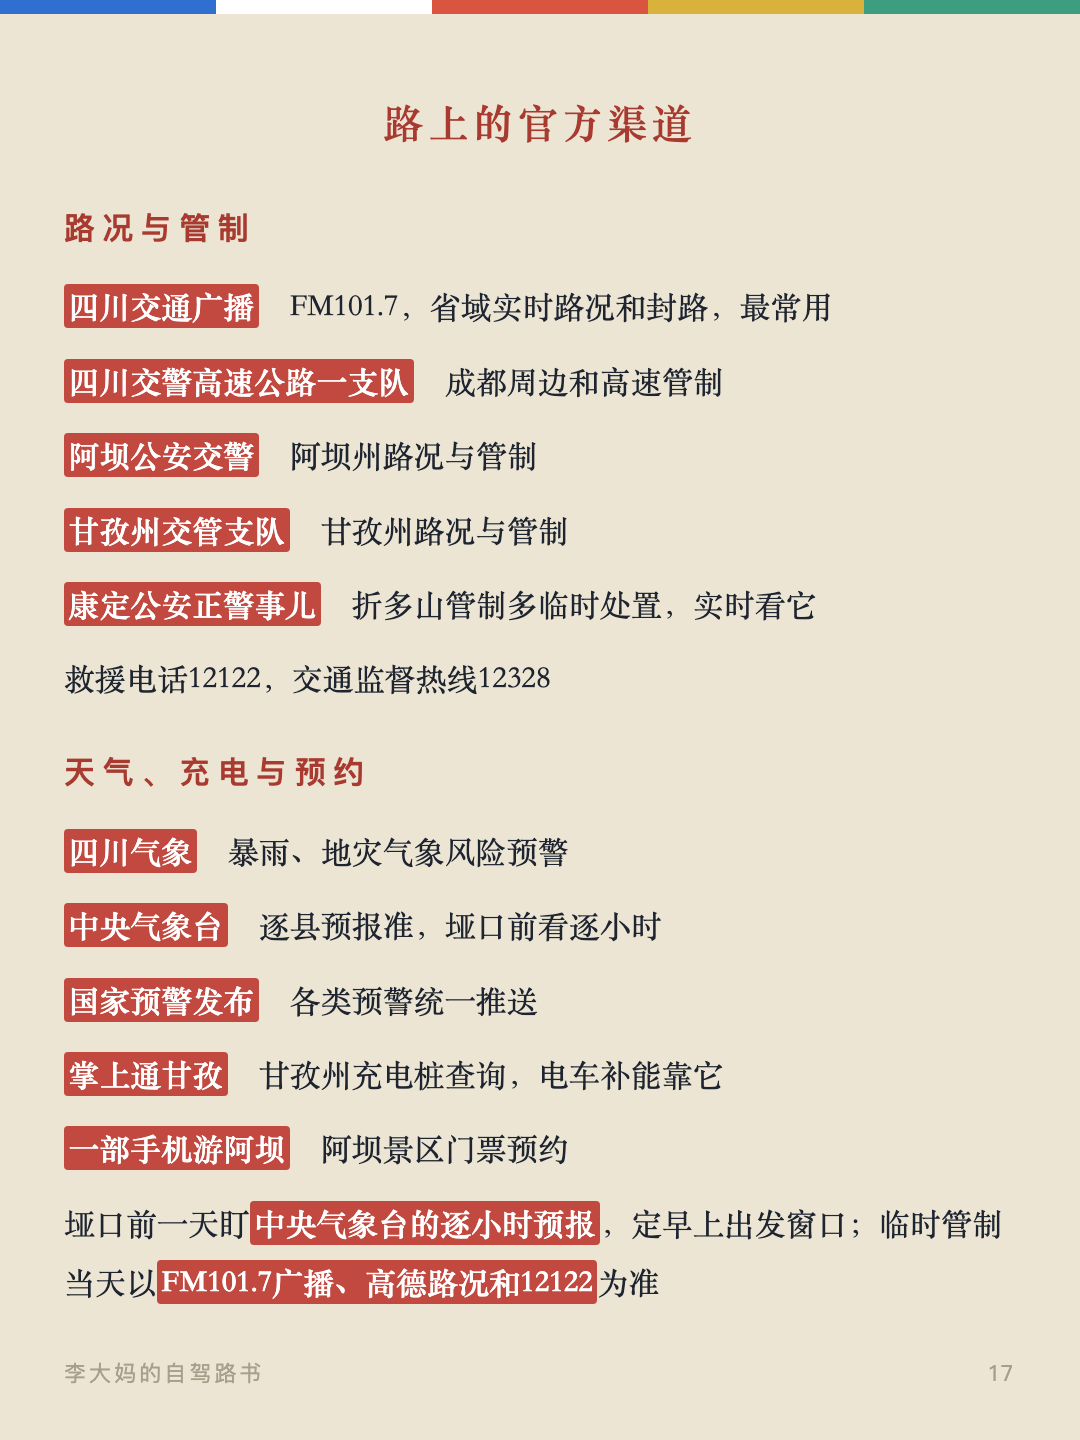
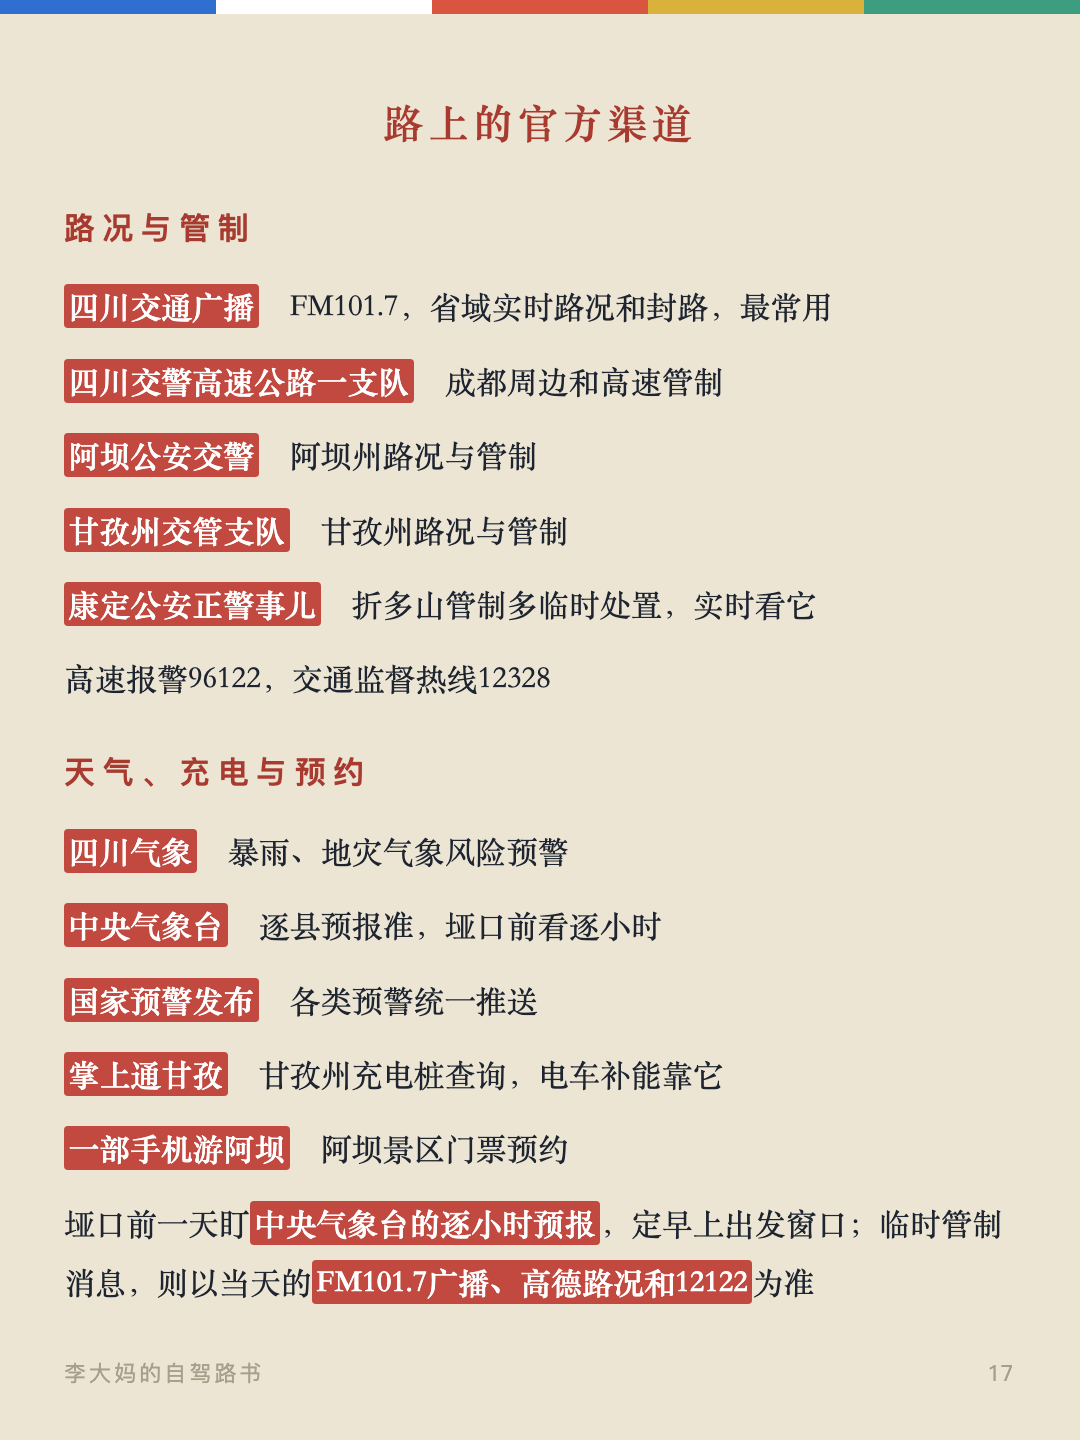
17页：临时管制消息以当天广播/高德/12122为准；救援电话改高速报警96122

Changed region(s): [[0.0611, 0.875, 0.7639, 0.9062], [0.0611, 0.4375, 0.1833, 0.5]]

diff --git a/cards.html b/cards.html
@@ -155,7 +155,7 @@
 
 <div class="card" id="card16"><div class="flag" aria-hidden="true"><span style="background:var(--flag-blue)"></span><span style="background:var(--flag-white)"></span><span style="background:var(--flag-red)"></span><span style="background:var(--flag-yellow)"></span><span style="background:var(--flag-green)"></span></div><div class="card__inner"><h2>出发检查清单</h2><ul class="card__list"><li>证件：<strong>身份证、驾驶证、行驶证</strong>随身带，别放车里</li> <li>车况：<strong>出发前保养</strong>，查轮胎、备胎、刹车、防冻液、机油</li> <li>油料：进县城就加满，<strong>县外默认没有加油站</strong>，见油就加</li> <li>脱困：<strong>拖车绳、防滑链</strong>、充气泵、补胎工具、搭电线</li> <li>电源：<strong>充电宝带足</strong>，手机全程导航费电，下车关屏</li> <li>高反药：乙酰唑胺<strong>遵医嘱</strong>提前吃，布洛芬备头痛</li> <li>常备药：感冒、肠胃、晕车、创可贴、<strong>葡萄糖</strong>冲水喝</li> <li>监测：<strong>指夹式血氧仪</strong>，头晕无力先测一下</li> <li>衣物：抓绒、羽绒、冲锋衣，<strong>进山全带上</strong></li> <li>防晒：<strong>高倍防晒霜</strong>、墨镜、帽子、润唇膏</li> <li>饮水：保温杯装热水，车上备<strong>干粮、能量零食</strong></li> <li>导航：<strong>离线地图</strong>出发前下好，支线没有信号</li> <li>预案：<strong>把行程告诉家人</strong>，山里按没信号准备</li> <li>收尾：<strong>垃圾全部带走</strong>，不留在山里</li></ul><div class="card__foot"><span>李大妈的自驾路书</span><span>16</span></div></div></div>
 
-<div class="card" id="card17"><div class="flag" aria-hidden="true"><span style="background:var(--flag-blue)"></span><span style="background:var(--flag-white)"></span><span style="background:var(--flag-red)"></span><span style="background:var(--flag-yellow)"></span><span style="background:var(--flag-green)"></span></div><div class="card__inner"><h2>路上的官方渠道</h2><h3>路况与管制</h3><ul class="card__cwords"><li><b>四川交通广播</b>FM101.7，省域实时路况和封路，最常用</li> <li><b>四川交警高速公路一支队</b>成都周边和高速管制</li> <li><b>阿坝公安交警</b>阿坝州路况与管制</li> <li><b>甘孜州交管支队</b>甘孜州路况与管制</li> <li><b>康定公安正警事儿</b>折多山管制多临时处置，实时看它</li> <li>救援电话12122，交通监督热线12328</li></ul><h3>天气、充电与预约</h3><ul class="card__cwords"><li><b>四川气象</b>暴雨、地灾气象风险预警</li> <li><b>中央气象台</b>逐县预报准，垭口前看逐小时</li> <li><b>国家预警发布</b>各类预警统一推送</li> <li><b>掌上通甘孜</b>甘孜州充电桩查询，电车补能靠它</li> <li><b>一部手机游阿坝</b>阿坝景区门票预约</li> <li>垭口前一天盯<strong>中央气象台的逐小时预报</strong>，定早上出发窗口；临时管制当天以<strong>FM101.7广播、高德路况和12122</strong>为准</li></ul><div class="card__foot"><span>李大妈的自驾路书</span><span>17</span></div></div></div>
+<div class="card" id="card17"><div class="flag" aria-hidden="true"><span style="background:var(--flag-blue)"></span><span style="background:var(--flag-white)"></span><span style="background:var(--flag-red)"></span><span style="background:var(--flag-yellow)"></span><span style="background:var(--flag-green)"></span></div><div class="card__inner"><h2>路上的官方渠道</h2><h3>路况与管制</h3><ul class="card__cwords"><li><b>四川交通广播</b>FM101.7，省域实时路况和封路，最常用</li> <li><b>四川交警高速公路一支队</b>成都周边和高速管制</li> <li><b>阿坝公安交警</b>阿坝州路况与管制</li> <li><b>甘孜州交管支队</b>甘孜州路况与管制</li> <li><b>康定公安正警事儿</b>折多山管制多临时处置，实时看它</li> <li>高速报警96122，交通监督热线12328</li></ul><h3>天气、充电与预约</h3><ul class="card__cwords"><li><b>四川气象</b>暴雨、地灾气象风险预警</li> <li><b>中央气象台</b>逐县预报准，垭口前看逐小时</li> <li><b>国家预警发布</b>各类预警统一推送</li> <li><b>掌上通甘孜</b>甘孜州充电桩查询，电车补能靠它</li> <li><b>一部手机游阿坝</b>阿坝景区门票预约</li> <li>垭口前一天盯<strong>中央气象台的逐小时预报</strong>，定早上出发窗口；临时管制消息，则以当天的<strong>FM101.7广播、高德路况和12122</strong>为准</li></ul><div class="card__foot"><span>李大妈的自驾路书</span><span>17</span></div></div></div>
 
 <div class="card" id="card18"><div class="flag" aria-hidden="true"><span style="background:var(--flag-blue)"></span><span style="background:var(--flag-white)"></span><span style="background:var(--flag-red)"></span><span style="background:var(--flag-yellow)"></span><span style="background:var(--flag-green)"></span></div><div class="card__inner"><h2>易出险的路段</h2><h3>冰雪与暗冰</h3><ul class="card__cwords"><li><b>折多山</b>G318康定侧，自驾第一道雪山关，雾冰多发</li> <li><b>夹金山</b>雅安宝兴通小金，垭口约4100米，冬季全段禁行</li> <li><b>巴朗山</b>卧龙通小金，垭口高，冬季易封</li> <li><b>雀儿山</b>G317德格段，冰期长，隧道两头路面易暗冰</li> <li><b>剪子弯山、卡子拉山</b>G318理塘方向，长垭口风雪路滑</li></ul><h3>塌方与落石</h3><ul class="card__cwords"><li><b>雅康高速泸定段</b>二郎山到泸定，暴雨后易断道</li> <li><b>大渡河谷</b>泸定到丹巴，雨季塌方飞石多</li> <li><b>G317汶川到理县</b>峡谷临河落石多，雨天慎行</li> <li><b>金沙江沿岸</b>白玉到德格，雨后易滑坡</li> <li><b>非铺装穿越路</b>雨后泥泞，遇雨改期不要硬冲</li></ul><div class="card__foot"><span>李大妈的自驾路书</span><span>18</span></div></div></div>
 

diff --git a/index.html b/index.html
@@ -336,7 +336,7 @@
         <li><b>阿坝公安交警</b>阿坝州路况与管制</li>
         <li><b>甘孜州交管支队</b>甘孜州路况与管制</li>
         <li><b>康定公安正警事儿</b>折多山管制多临时处置，实时看它</li>
-        <li>救援电话12122，交通监督热线12328</li>
+        <li>高速报警96122，交通监督热线12328</li>
       </ul>
 
       <h3>天气、充电与预约</h3>
@@ -346,7 +346,7 @@
         <li><b>国家预警发布</b>各类预警统一推送</li>
         <li><b>掌上通甘孜</b>甘孜州充电桩查询，电车补能靠它</li>
         <li><b>一部手机游阿坝</b>阿坝景区门票预约</li>
-        <li>垭口前一天盯<strong>中央气象台的逐小时预报</strong>，定早上出发窗口；临时管制当天以<strong>FM101.7广播、高德路况和12122</strong>为准</li>
+        <li>垭口前一天盯<strong>中央气象台的逐小时预报</strong>，定早上出发窗口；临时管制消息，则以当天的<strong>FM101.7广播、高德路况和12122</strong>为准</li>
       </ul>
 
       <h3>易出险的路段</h3>

diff --git a/gen_cards.py b/gen_cards.py
@@ -99,9 +99,9 @@ A_PAGES = [
   [
     ('h2', '路上的官方渠道'),
     ('h3', '路况与管制'),
-    ('cwords', '<li><b>四川交通广播</b>FM101.7，省域实时路况和封路，最常用</li> <li><b>四川交警高速公路一支队</b>成都周边和高速管制</li> <li><b>阿坝公安交警</b>阿坝州路况与管制</li> <li><b>甘孜州交管支队</b>甘孜州路况与管制</li> <li><b>康定公安正警事儿</b>折多山管制多临时处置，实时看它</li> <li>救援电话12122，交通监督热线12328</li>'),
+    ('cwords', '<li><b>四川交通广播</b>FM101.7，省域实时路况和封路，最常用</li> <li><b>四川交警高速公路一支队</b>成都周边和高速管制</li> <li><b>阿坝公安交警</b>阿坝州路况与管制</li> <li><b>甘孜州交管支队</b>甘孜州路况与管制</li> <li><b>康定公安正警事儿</b>折多山管制多临时处置，实时看它</li> <li>高速报警96122，交通监督热线12328</li>'),
     ('h3', '天气、充电与预约'),
-    ('cwords', '<li><b>四川气象</b>暴雨、地灾气象风险预警</li> <li><b>中央气象台</b>逐县预报准，垭口前看逐小时</li> <li><b>国家预警发布</b>各类预警统一推送</li> <li><b>掌上通甘孜</b>甘孜州充电桩查询，电车补能靠它</li> <li><b>一部手机游阿坝</b>阿坝景区门票预约</li> <li>垭口前一天盯<strong>中央气象台的逐小时预报</strong>，定早上出发窗口；临时管制当天以<strong>FM101.7广播、高德路况和12122</strong>为准</li>'),
+    ('cwords', '<li><b>四川气象</b>暴雨、地灾气象风险预警</li> <li><b>中央气象台</b>逐县预报准，垭口前看逐小时</li> <li><b>国家预警发布</b>各类预警统一推送</li> <li><b>掌上通甘孜</b>甘孜州充电桩查询，电车补能靠它</li> <li><b>一部手机游阿坝</b>阿坝景区门票预约</li> <li>垭口前一天盯<strong>中央气象台的逐小时预报</strong>，定早上出发窗口；临时管制消息，则以当天的<strong>FM101.7广播、高德路况和12122</strong>为准</li>'),
   ],
   # 附录第3页（18）——易出险的路段（通用版，常走路段在前）
   [
